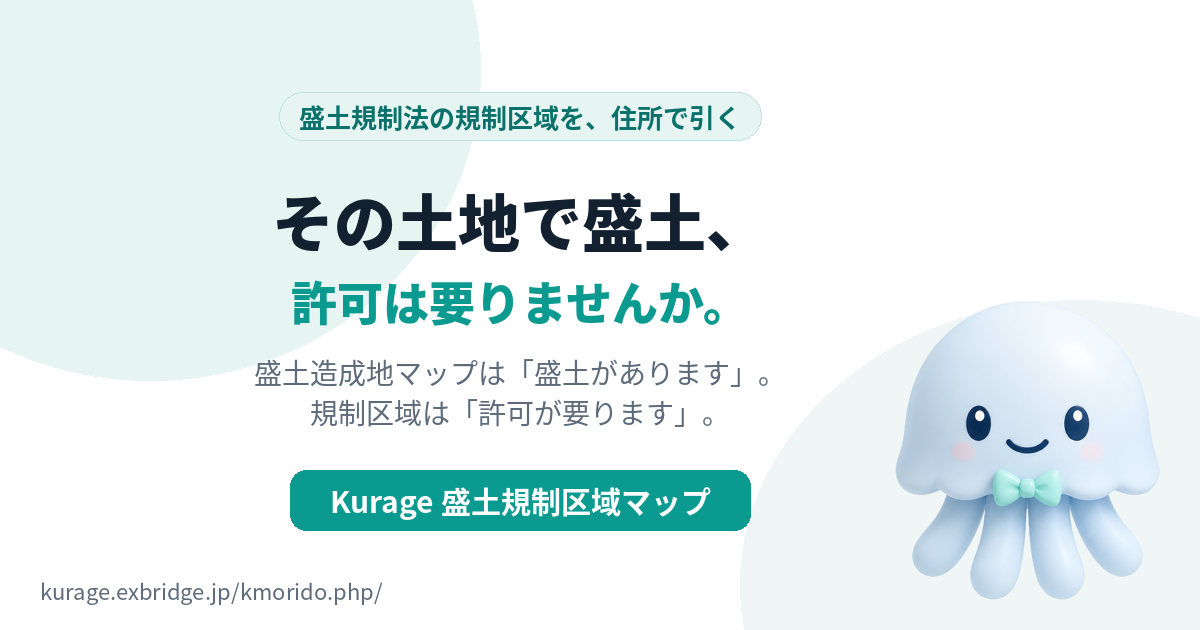
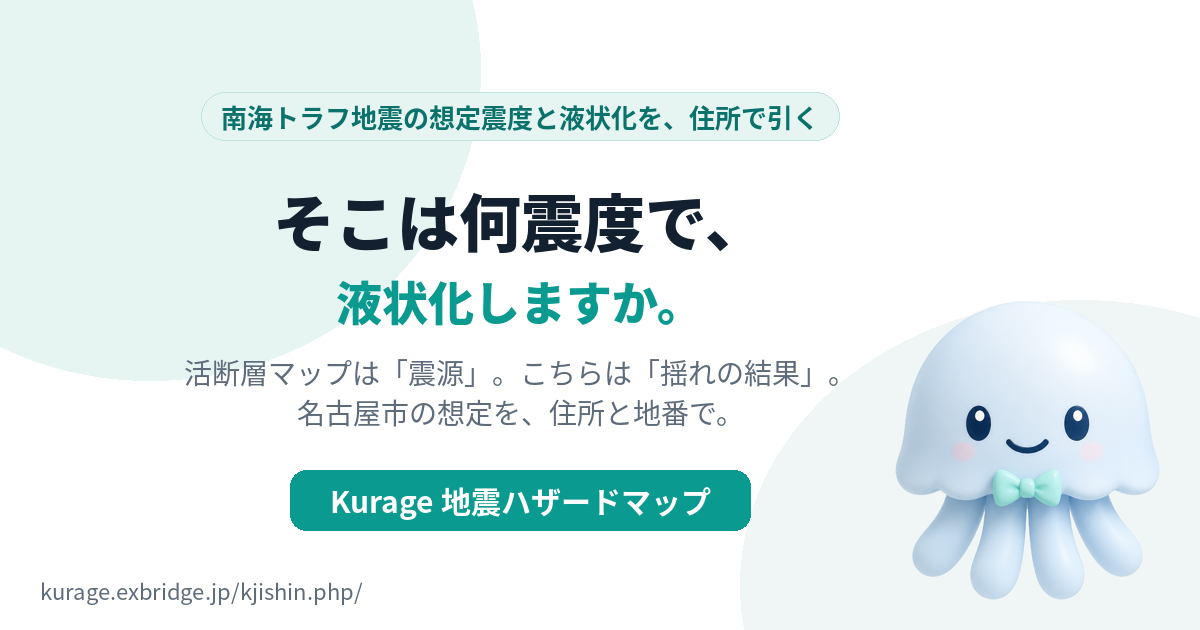
OGP画像・計測タグ・AI引き継ぎ資料を追加
GA4とsimpletrack（kurageに集約）を base.html に入れた。

diff --git a/app/templates/base.html b/app/templates/base.html
@@ -12,6 +12,9 @@
 <meta property="og:locale" content="ja_JP">
 <meta name="twitter:card" content="summary_large_image">
 <script type="application/ld+json">{{ jsonld|safe }}</script>
+<script async src="https://www.googletagmanager.com/gtag/js?id=G-BP0650KDFR"></script>
+<script>window.dataLayer=window.dataLayer||[];function gtag(){dataLayer.push(arguments)}gtag('js',new Date());gtag('config','G-BP0650KDFR');</script>
+<script>(function(){var s=document.createElement('script');s.src='https://kurage.exbridge.jp/simpletrack.php?url='+encodeURIComponent(location.href)+'&ref='+encodeURIComponent(document.referrer);s.async=true;document.head.appendChild(s)})();</script>
 {% block head %}{% endblock %}
 <style>
 :root{--ink:#12202f;--muted:#5a6a7a;--line:#d9e4e8;--teal:#0a9a8f;--teal-deep:#087064;--paper:#f7fbfa;--warn:#c0392b;--warn-bg:#fdecea;}

diff --git a/scripts/make_ogp.py b/scripts/make_ogp.py
@@ -1,0 +1,47 @@
+#!/usr/bin/env python3
+"""OGP 画像 1200×630（ライトテーマ・中央寄せ・文字大きく・マスコット入り・数字は焼き込まない）。
+  /usr/bin/python3 scripts/make_ogp.py
+"""
+import os
+
+from PIL import Image, ImageDraw, ImageFont
+
+W, H = 1200, 630
+ROOT = os.path.dirname(os.path.dirname(os.path.abspath(__file__)))
+OUT = os.path.join(ROOT, "app", "static", "ogp.png")
+MASCOT = "/home/kojima/work/kurage_web/images/kurage-mascot-cutout.png"
+FB = "/usr/share/fonts/opentype/noto/NotoSansCJK-Black.ttc"
+FM = "/usr/share/fonts/opentype/noto/NotoSansCJK-Bold.ttc"
+FR = "/usr/share/fonts/opentype/noto/NotoSansCJK-Regular.ttc"
+
+os.makedirs(os.path.dirname(OUT), exist_ok=True)
+img = Image.new("RGB", (W, H), "#ffffff")
+dr = ImageDraw.Draw(img, "RGBA")
+dr.ellipse([-180, -240, 480, 380], fill=(230, 244, 242, 255))
+dr.ellipse([W - 460, H - 330, W + 220, H + 240], fill=(240, 246, 246, 255))
+mascot = None
+if os.path.exists(MASCOT):
+    mascot = Image.open(MASCOT).convert("RGBA")
+    mh = 300
+    mascot = mascot.resize((int(mascot.width * mh / mascot.height), mh))
+cx = 520 if mascot else W // 2
+f_badge = ImageFont.truetype(FM, 26)
+f_h = ImageFont.truetype(FB, 62)
+f_h2 = ImageFont.truetype(FB, 46)
+f_s = ImageFont.truetype(FR, 28)
+f_brand = ImageFont.truetype(FM, 30)
+badge = "南海トラフ地震の想定震度と液状化を、住所で引く"
+bw = dr.textlength(badge, font=f_badge) + 40
+dr.rounded_rectangle([cx - bw / 2, 92, cx + bw / 2, 140], radius=24, fill="#e6f4f2", outline="#bfe3de")
+dr.text((cx, 116), badge, font=f_badge, fill="#0a726b", anchor="mm")
+dr.text((cx, 220), "そこは何震度で、", font=f_h, fill="#12202f", anchor="mm")
+dr.text((cx, 300), "液状化しますか。", font=f_h2, fill="#0a9a8f", anchor="mm")
+dr.text((cx, 372), "活断層マップは「震源」。こちらは「揺れの結果」。", font=f_s, fill="#5d6b7a", anchor="mm")
+dr.text((cx, 412), "名古屋市の想定を、住所と地番で。", font=f_s, fill="#5d6b7a", anchor="mm")
+dr.rounded_rectangle([cx - 230, 470, cx + 230, 530], radius=16, fill="#0a9a8f")
+dr.text((cx, 500), "Kurage 地震ハザードマップ", font=f_brand, fill="#ffffff", anchor="mm")
+if mascot:
+    img.paste(mascot, (W - mascot.width - 40, H - mascot.height - 30), mascot)
+dr.text((40, H - 40), "kurage.exbridge.jp/kjishin.php/", font=ImageFont.truetype(FR, 22), fill="#5d6b7a", anchor="lm")
+img.save(OUT, optimize=True)
+print(OUT, img.size)

diff --git a/docs/AI-START-HERE.md b/docs/AI-START-HERE.md
@@ -1,0 +1,28 @@
+# kjishin をこれから触るAIへ
+
+FastAPI ＋ SQLite(R*Tree) ＋ shapely ＋ pyproj。データは名古屋市オープンデータ（CC BY 4.0）。
+
+## 先に読むもの
+- `README.md` の「設計の芯」。とくに「区域外」「判定対象外」「範囲外」の3つの区別。
+- `app/codes.py` の冒頭コメント。**PL値の負の値をどう扱うか**の根拠が書いてある。
+
+## やりがちな誤り
+- **液状化の負のPL値を「液状化しない」と訳す。** 違う。**判定の対象に入っていない**。
+  -1.0 と -6.6 の2種類あるが**定義が公開されていない**ので、区別せず「判定対象外」とまとめる。
+  分布を実測して台地（市東部）に偏ることを確認済み。推測で別々の意味を付けない。
+- **地番参考図の座標系を緯度経度だと思う。** `.prj` が入っていない。中身は
+  **平面直角座標系（メートル）第VII系（EPSG:6675）**。取り込み時に EPSG:6668 へ変換する。
+  第6系だと京都、第8系だと静岡に飛ぶので、おかしいと思ったらまず座標を1点変換して確かめる。
+- **地番参考図を求積や権利の根拠に使う。** 名古屋市が「根拠となるものではない」と明記している。
+- **PostGIS を持ち込む。** メッシュは矩形なので R*Tree で 0.2ms。要らない。
+- **市外を「液状化なし」と答える。** 対象は名古屋市内のみ。市外は status='outside'。
+
+## データ更新
+名古屋市の配布は年1回。BODIK のデータセットから最新のZIPのURLを取り直し、
+`scripts/load_nagoya.py` の SOURCES と VINTAGE、`scripts/load_chiban.py` の ZIPS と VINTAGE を更新する。
+取り込み後は **PL値の負の値の種類**（今は -1.0 と -6.6 の2つ）が増えていないか必ず確認する。
+増えていたら、また分布を実測してから扱いを決める。
+
+## MCP
+`kjishin_mcp.py`。製品本体の関数をそのまま呼ぶ薄い橋にしてある。**ここで別の判定を作らない。**
+notes を必ず返すのは、AIが数字だけ抜いて「震度6強です」と断言しないようにするため。
